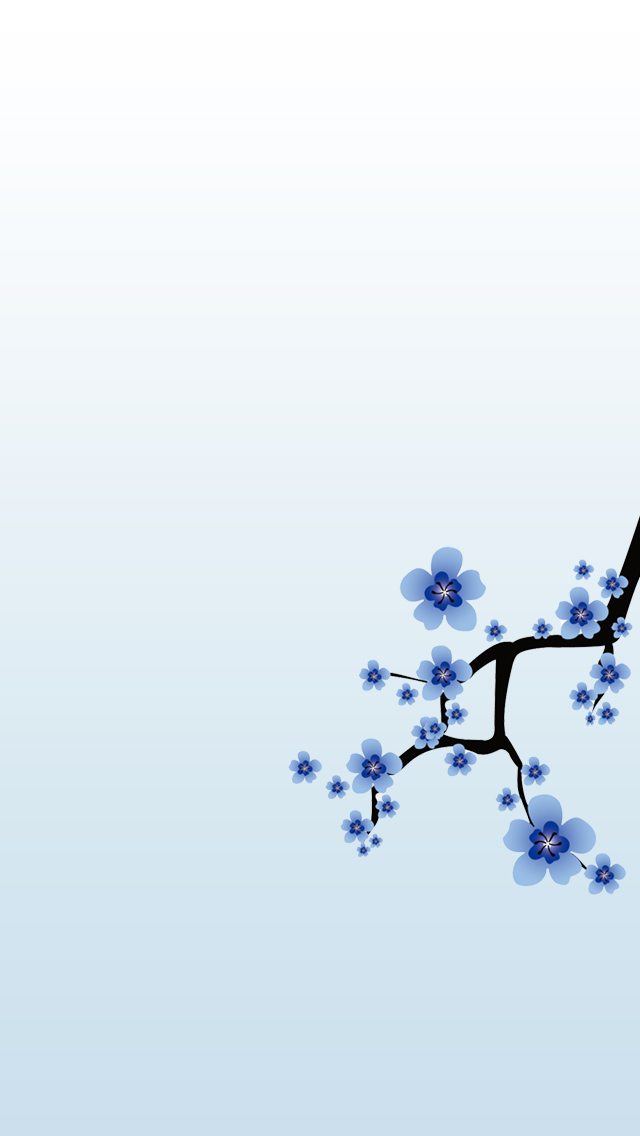
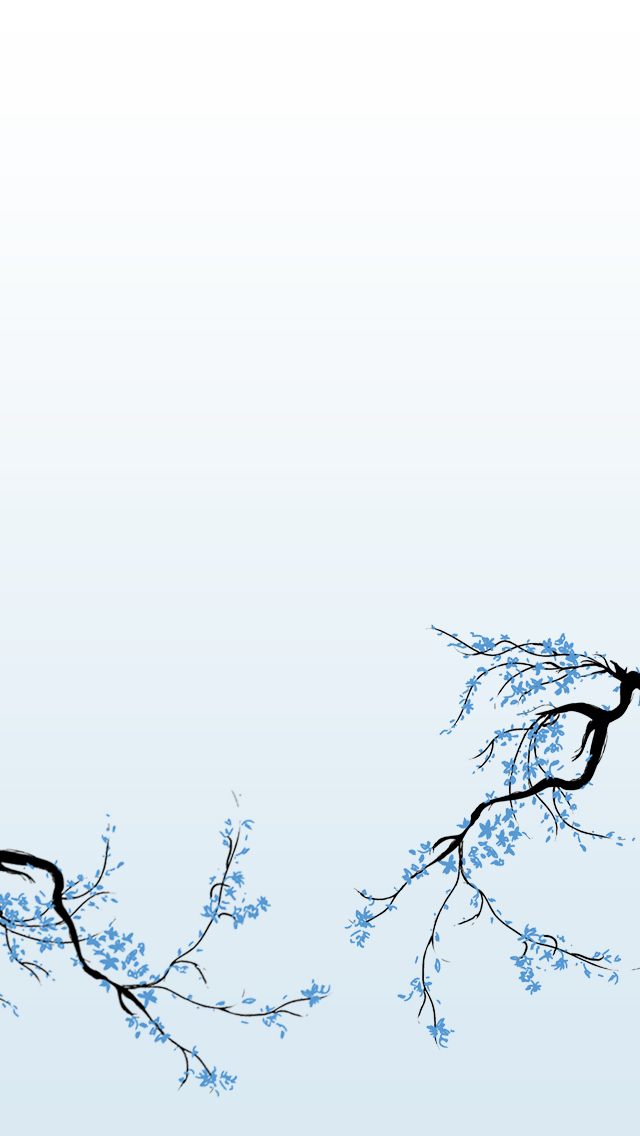
I have changed logout register profile etc

diff --git a/src/pages/register/register.html b/src/pages/register/register.html
@@ -1,13 +1,13 @@
 <ion-header>
 
-  <ion-navbar>
+  <ion-navbar transparent>
     <ion-title>Register</ion-title>
   </ion-navbar>
 
 </ion-header>
 
 
-<ion-content padding>
+<ion-content class="background" padding>
   <div>
 
 
@@ -23,67 +23,52 @@
        <form [formGroup]="form" (ngSubmit)="register()">
 
           <ion-list>
-             <ion-item-group>
-                <ion-item-divider color="light">Email</ion-item-divider>
+              <ion-item-divider color="light">Sign up with a new account</ion-item-divider>
                 <ion-item>
+                  <ion-label floating>New email</ion-label>
                    <ion-input
                       type="text"
-                      placeholder="Enter your email..."
                       formControlName="t_email"
                       [(ngModel)]="userEmail"></ion-input>
                 </ion-item>
-             </ion-item-group>
 
-             <ion-item-group>
-                <ion-item-divider color="light">Password</ion-item-divider>
+             
                 <ion-item>
+                  <ion-label floating>New password</ion-label>
                    <ion-input
                       type="password"
-                      placeholder="Enter your password..."
                       formControlName="t_password"
                       [(ngModel)]="userPassword"></ion-input>
                 </ion-item>
-             </ion-item-group>
-             <ion-item-group>
-              <ion-item-divider color="light">Name</ion-item-divider>
+    
               <ion-item>
+                  <ion-label floating>What's your name?</ion-label>
                  <ion-input
                     type="text"
-                    placeholder="Enter your name..."
                     formControlName="u_name"
                     [(ngModel)]="userName"></ion-input>
               </ion-item>
-           </ion-item-group>
-           <ion-item-group>
-            <ion-item-divider color="light">Date of Birth</ion-item-divider>
             <ion-item>
+                <ion-label floating>When is your birthday?</ion-label>
                <ion-datetime displayFormat="DD MMM YYYY"
                   [(ngModel)]="userDOB"
-                  placeholder="Enter your date of birth..."
                   formControlName="u_dob"
                   [max]="maxDate"></ion-datetime>
             </ion-item>
-         </ion-item-group>
-         <ion-item-group>
-          <ion-item-divider color="light">Weight</ion-item-divider>
           <ion-item>
+              <ion-label floating>Weight kgs (optional)</ion-label>
              <ion-input
                 type="number"
-                placeholder="Enter your weight..."
                 formControlName="u_weight"
                 [(ngModel)]="userWeight"></ion-input>
           </ion-item>
-       </ion-item-group>
-       <ion-item-group>
-        <ion-item-divider color="light">Height</ion-item-divider>
         <ion-item>
+            <ion-label floating>Height cm (optional)</ion-label>
            <ion-input
               type="number"
-              placeholder="Enter your height..."
               formControlName="u_height"
               [(ngModel)]="userHeight"></ion-input>
         </ion-item>
-      </ion-item-group>
 
              <ion-item>
                 <button

diff --git a/src/pages/profile/profile.html b/src/pages/profile/profile.html
@@ -5,56 +5,48 @@
             Edit
             </button>
         </ion-buttons>
-       <ion-title>
+       <!-- <ion-title>
         {{ item }} 
-      </ion-title>
+      </ion-title> -->
     </ion-navbar>
   </ion-header>
   
-  <ion-content padding>
+  <ion-content no-border>
   
     <ion-item *ngFor="let item of items">
 
-        <ion-card>
+        <ion-card class="margin-page">
 
-            <ion-card-header>
-              Email
-            </ion-card-header>
+                <ion-card-content class="bold">
+                        {{ item.u_name }} 
+                    </ion-card-content>
+
           
             <ion-card-content>
-                {{ item.t_email }} 
+              {{ item.t_email }} 
             </ion-card-content>
-
-            <ion-card-header>
-                Name
-              </ion-card-header>
-            
-              <ion-card-content>
-                  {{ item.u_name }} 
-              </ion-card-content>
-
-              <ion-card-header>
+<!--              <ion-card-header>
                   Date Of Birth
-                </ion-card-header>
+                </ion-card-header> -->
               
                 <ion-card-content>
-                    {{ item.u_dob }}
+                   You were born on {{ item.u_dob }}
                 </ion-card-content>
                 
-                <ion-card-header>
+                <!-- <ion-card-header>
                   Weight
-                </ion-card-header>
+                </ion-card-header> -->
               
                 <ion-card-content>
-                    {{ item.u_weight }} Kg
+                   You weigh {{ item.u_weight }} Kg
                 </ion-card-content>
 
-                <ion-card-header>
+                <!-- <ion-card-header>
                     Height
-                  </ion-card-header>
+                  </ion-card-header> -->
                 
                   <ion-card-content>
-                      {{ item.u_height }} cm
+                     Your height is {{ item.u_height }} cm
                   </ion-card-content>
           
           </ion-card>

diff --git a/src/pages/view-medicine/view-medicine.html b/src/pages/view-medicine/view-medicine.html
@@ -15,52 +15,52 @@
 
     <ion-card>
 
-      <ion-card-header>
+      <!-- <ion-card-header>
       Medicine Name
-      </ion-card-header>
+      </ion-card-header> -->
 
-      <ion-card-content>
+      <ion-card-content class="bold">
       {{ medName }} 
       </ion-card-content>
 
-      <ion-card-header>
+      <!-- <ion-card-header>
       Number of pills
-      </ion-card-header>
+      </ion-card-header> -->
 
       <ion-card-content>
-      {{ medNoPills }} 
+      {{ medNoPills }} pills per {{ medRepeat }}
       </ion-card-content>
 
-      <ion-card-header>
+      <!-- <ion-card-header>
       Start Date
-      </ion-card-header>
+      </ion-card-header> -->
 
       <ion-card-content>
-      {{ medSDate }} 
+      Start date {{ medSDate }} 
       </ion-card-content>
 
-      <ion-card-header>
+      <!-- <ion-card-header>
       End Date
-      </ion-card-header>
+      </ion-card-header> -->
 
       <ion-card-content>
-      {{ medEDate }}
+      End date {{ medEDate }}
       </ion-card-content>
 
-      <ion-card-header>
+      <!-- <ion-card-header>
       Time
-      </ion-card-header>
+      </ion-card-header> -->
 
       <ion-card-content>
-      {{ medTime }}
+      Time {{ medTime }}
       </ion-card-content>
 
-      <ion-card-header>
+      <!-- <ion-card-header>
       Repeat
       </ion-card-header>
 
       <ion-card-content>
       {{ medRepeat }}
-      </ion-card-content>
+      </ion-card-content> -->
     </ion-card>
   </ion-content>

diff --git a/src/pages/add-reminder/add-reminder.html b/src/pages/add-reminder/add-reminder.html
@@ -1,5 +1,5 @@
 <ion-header>
-      <ion-navbar>
+      <ion-navbar color="mylightpink">
             <ion-title>{{ pageTitle }}</ion-title>
       </ion-navbar>
 </ion-header>
@@ -62,9 +62,10 @@
                         <ion-item>
                               <button
                               ion-button
-                              color="primary"
+                              color="ourblue"
                               text-center
                               block
+                              round
                               [disabled]="!form.valid">Save Entry</button>
                         </ion-item>
       
@@ -75,6 +76,7 @@
                               color="danger"
                               text-center
                               block
+                              round
                               (click)="deleteEntry()">Remove this Entry?</button>
                         </ion-item>
       

diff --git a/src/pages/logout/logout.html b/src/pages/logout/logout.html
@@ -6,7 +6,7 @@
 -->
 <ion-header>
 
-  <ion-navbar>
+  <ion-navbar transparent>
     <ion-title>Logout</ion-title>
   </ion-navbar>
 
@@ -14,16 +14,16 @@
 
 
 <ion-content padding>
-  <h1>Are you sure you want to logout?</h1>
+  <p>Are you sure you want to logout?</p>
   <ion-grid >
       <ion-row>
         <ion-col center text-center>
-          <button ion-button block color="button" (click)="logOut()">Yes</button>
+          <button ion-button round color="mylight" (click)="logOut()">Yes</button>
         </ion-col>
       </ion-row>
       <ion-row>
         <ion-col center text-center>
-          <button ion-button navPop block color="button">No</button>
+          <button ion-button round navPop color="button">No</button>
         </ion-col>
       </ion-row>
     </ion-grid>

diff --git a/src/pages/add-medicine/add-medicine.html b/src/pages/add-medicine/add-medicine.html
@@ -67,9 +67,10 @@
               <ion-item>
                  <button
                     ion-button
-                    color="primary"
+                    color="ourblue"
                     text-center
                     block
+                    round
                     [disabled]="!formM.valid">Save Entry</button>
               </ion-item>
 
@@ -80,6 +81,7 @@
                      color="danger"
                      text-center
                      block
+                     round
                      (click)="deleteEntry()">Remove this Entry?</button>
                </ion-item>
 

diff --git a/src/pages/profile/profile.scss b/src/pages/profile/profile.scss
@@ -1,3 +1,18 @@
 page-profile {
 
+    .content{
+        background: url(../assets/imgs/profile.jpg) no-repeat center center fixed;
+        -webkit-background-size: cover;
+        -moz-background-size: cover;
+        background-size: cover;
+    }
+
+    .bold{
+        font-weight: bold;
+    }
+
+    .margin-page{
+        margin-top: 25%;
+    }
+
 }

diff --git a/src/pages/other-health-concerns/other-health-concerns.scss b/src/pages/other-health-concerns/other-health-concerns.scss
@@ -1,6 +1,6 @@
 page-other-health-concerns {
     .content{
-        background: url(../assets/imgs/health.jpg) no-repeat center center fixed;
+        background: url(../assets/imgs/health1.jpg) no-repeat center center fixed;
         -webkit-background-size: cover;
         -moz-background-size: cover;
         background-size: cover;

diff --git a/src/pages/add-medicine/add-medicine.scss b/src/pages/add-medicine/add-medicine.scss
@@ -1,3 +1,14 @@
 page-add-medicine {
 
+    .content{
+        background: url(../assets/imgs/background2.jpg) no-repeat center center fixed;
+        -webkit-background-size: cover;
+        -moz-background-size: cover;
+        background-size: cover;
+    }
+
+    .bold{
+        font-weight: bold;
+    }
+
 }

diff --git a/src/pages/view-medicine/view-medicine.scss b/src/pages/view-medicine/view-medicine.scss
@@ -1,3 +1,14 @@
 page-view-medicine {
 
+    .content{
+        background: url(../assets/imgs/viewpill.jpg) no-repeat center center fixed;
+        -webkit-background-size: cover;
+        -moz-background-size: cover;
+        background-size: cover;
+    }
+
+    .bold{
+        font-weight: bold;
+    }
+
 }

diff --git a/src/pages/home/home.html b/src/pages/home/home.html
@@ -34,6 +34,6 @@
 
       <ion-footer>
           <button ion-button full color="ourwhite" (click)="goHome()">
-              <ion-icon name="home-outline" style="font-size: 35px;"></ion-icon>
+              <ion-icon name="home" style="font-size: 35px;"></ion-icon>
           </button>
       </ion-footer>

diff --git a/src/pages/logout/logout.scss b/src/pages/logout/logout.scss
@@ -1,3 +1,14 @@
 page-logout {
 
+    .content{
+        background: url(../assets/imgs/logout.jpg) no-repeat center center fixed;
+        -webkit-background-size: cover;
+        -moz-background-size: cover;
+        background-size: cover;
+    }
+
+    .bold{
+        font-weight: bold;
+    }
+
 }
